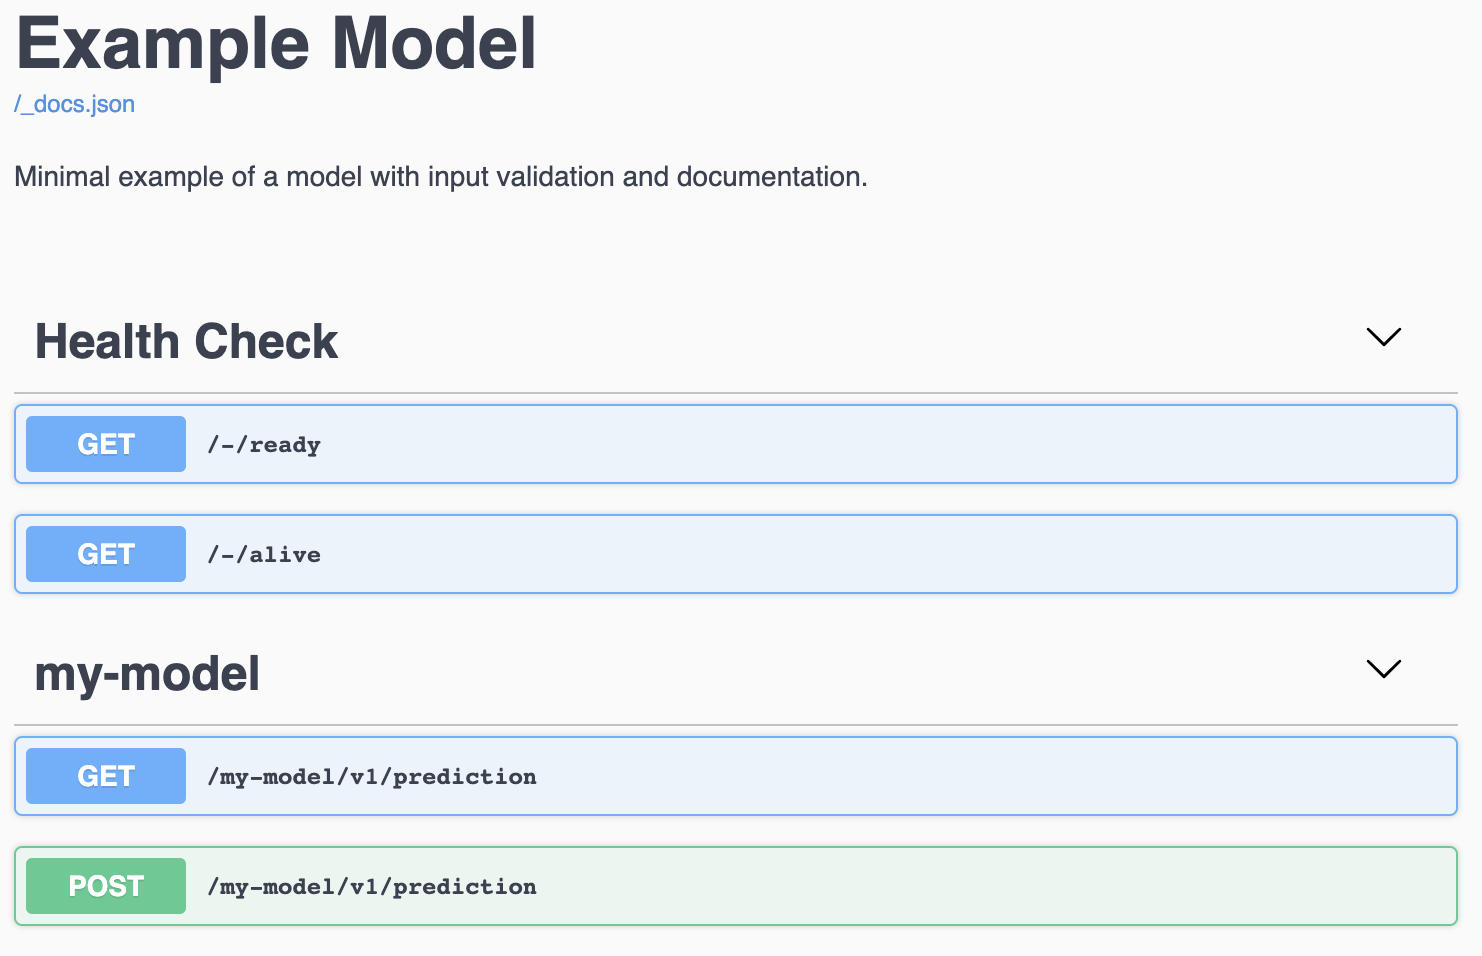
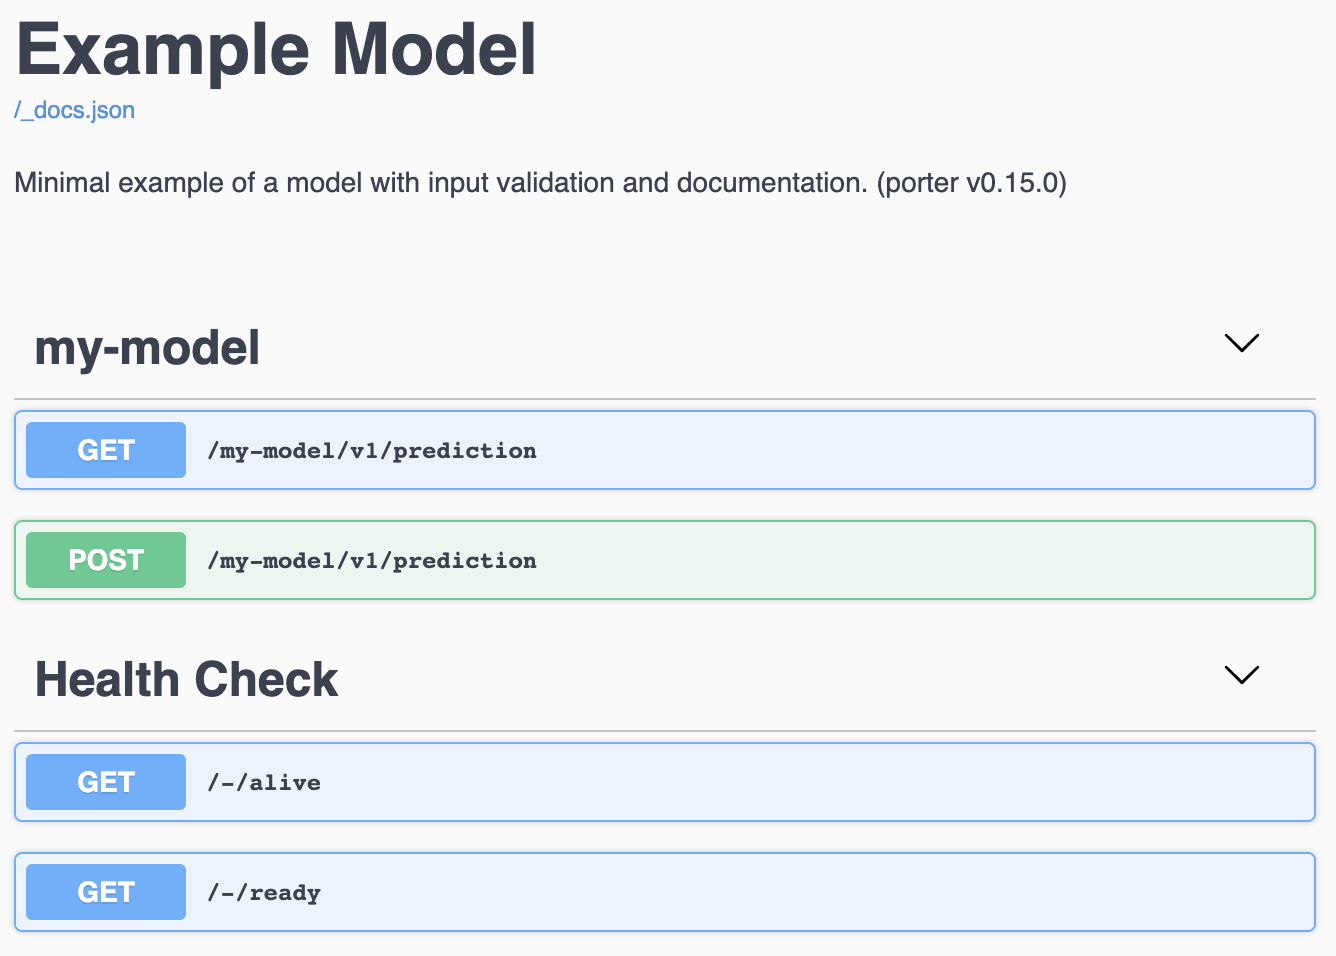
include porter version in app description; update docs accordingly

diff --git a/porter/services.py b/porter/services.py
@@ -34,6 +34,7 @@ from . import constants as cn
 from . import responses as porter_responses
 from . import schemas
 from .exceptions import PorterException
+from . import __version__ as VERSION
 
 # alias for convenience
 _ID = cn.PREDICTION_PREDICTIONS_KEYS.ID
@@ -804,7 +805,8 @@ class ModelApp:
         self.services = services
         self.name = name
         self.meta = {} if meta is None else meta
-        self.description = description
+        base_description = f' (porter v{VERSION})'
+        self.description = base_description if description is None else description + base_description
         self.version = version
         self.check_meta(self.meta)
         self.expose_docs = expose_docs

diff --git a/docs/service_architecture.rst b/docs/service_architecture.rst
@@ -28,7 +28,7 @@ ModelApp
 At present, all keyword arguments to ``ModelApp()`` are optional.  Here are
 their effects:
 
-- ``name``, ``description``, ``version``: These set the title, subtitle, and version badge at the top of the documentation.
+- ``name``, ``description``, ``version``: These set the title, subtitle, and version badge at the top of the documentation.  The ``porter`` version will be appended to the description.
 - ``meta``: This sets the ``app_meta`` object returned by the health checks (see :ref:`health_checks`).
 - ``expose_docs``: This enables automatic documentation.
 - ``docs_url``: This determines the URI where the documentation is hosted; by default this is ``/docs/``.  Note that GET requests to ``/`` forward to this URI.
